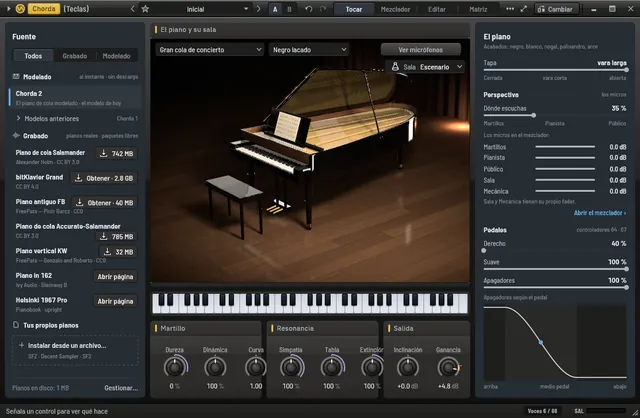
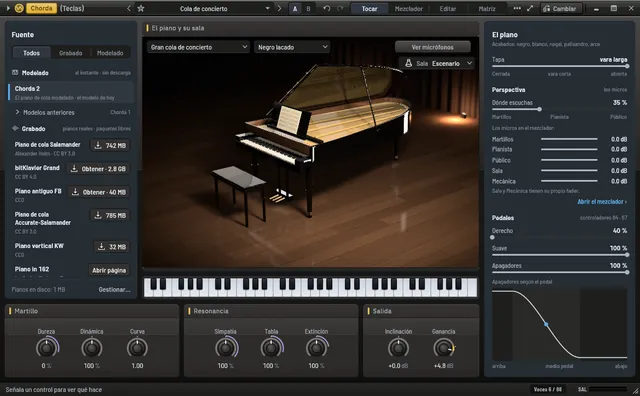
fix/final-d: Chorda's and Tympanum's final pictures on fix/final-e — Photographic, a clean install's content state, Chorda on Concert Grand, each editor at its own size (Chorda 1100x680, Tympanum 1200x692), the large ones at a real 200 % now that their labels hold (the Accurate-Salamander row wrappe

diff --git a/web/src/units_data.rs b/web/src/units_data.rs
@@ -176,8 +176,8 @@ pub const INSTRUMENTS: [Unit; 10] = [
         presets: Some(24),
         plugin: false,
         ab: None,
-        big: (1800, 1177),
-        thumb: (640, 418),
+        big: (1800, 1113),
+        thumb: (640, 396),
         es: None,
     },
 
@@ -199,8 +199,8 @@ pub const INSTRUMENTS: [Unit; 10] = [
         presets: None,
         plugin: false,
         ab: None,
-        big: (1800, 1086),
-        thumb: (640, 386),
+        big: (1800, 1038),
+        thumb: (640, 369),
         es: None,
     },
 
